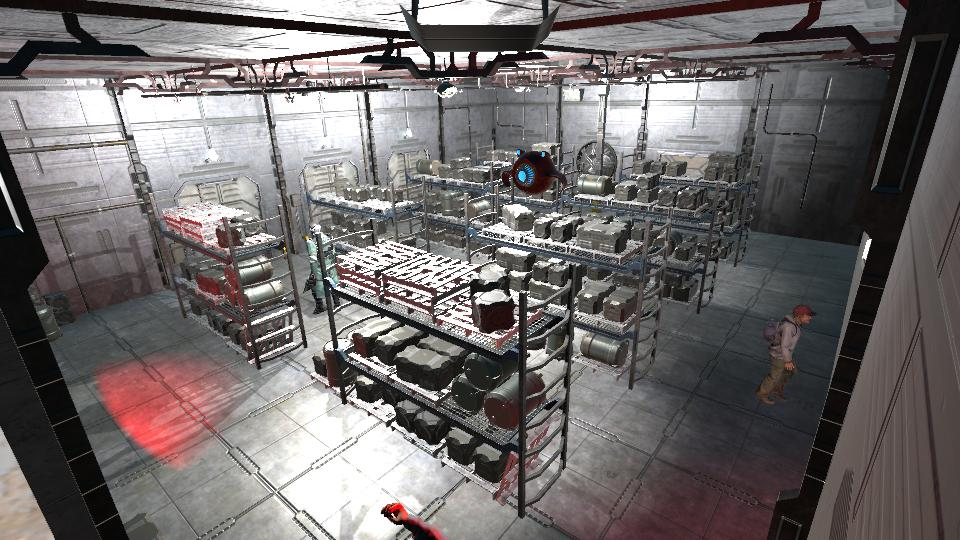
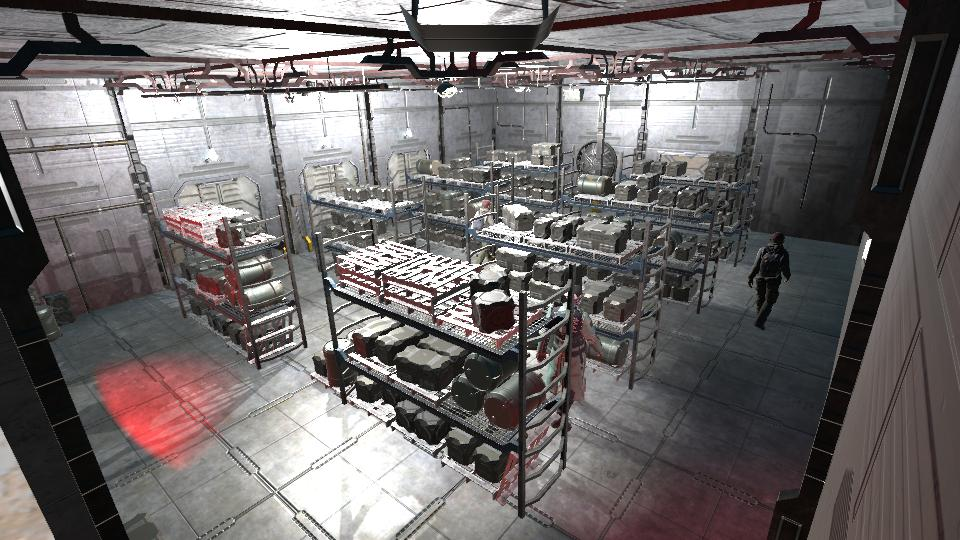
Guard Movement

diff --git a/UnityEvidencia2/Assets/Scripts/GuardController.cs b/UnityEvidencia2/Assets/Scripts/GuardController.cs
@@ -13,11 +13,9 @@ public class GuardController : MonoBehaviour
     //[SerializeField] private float rotationSpeed = 100f;
 
     private NavMeshAgent agent;
-    private int currentWaypointIndex = 0;
     private bool isMovingToTarget = false;
     private Animator animator; 
     private GameController gameController;
-    private List<Vector3> patrolRoute;
 
     private Vector3 controlStationPosition;
     private bool isAtControlStation = false;
@@ -29,14 +27,16 @@ public class GuardController : MonoBehaviour
         agent.speed = moveSpeed;
         gameController = FindObjectOfType<GameController>();
 
-        patrolRoute = new List<Vector3>
-        {
-            new Vector3(21, 0, 3)
-        };
+        // Comenta o elimina estas líneas
+        //patrolRoute = new List<Vector3>
+        //{
+        //    new Vector3(21, 0, 3)
+        //};
 
         controlStationPosition = new Vector3(14f, 0f, 1f);
 
-        MoveToNextWaypoint();
+        // Comenta o elimina esta línea
+        //MoveToNextWaypoint();
     }
 
     void Update()
@@ -44,13 +44,13 @@ public class GuardController : MonoBehaviour
         if (isMovingToTarget)
         {
             agent.SetDestination(agent.destination);
-            
-            // Check if reached the target (could be scavenger or control station)
+
+            // Verifica si ha llegado al destino (puede ser un intruso o la estación de control)
             if (Vector3.Distance(transform.position, agent.destination) <= catchDistance)
             {
                 isMovingToTarget = false;
-                
-                // If at control station, start staying timer
+
+                // Si está en la estación de control, inicia la rutina para quedarse allí
                 if (IsAtControlStation())
                 {
                     StartCoroutine(StayAtControlStation());
@@ -62,6 +62,8 @@ public class GuardController : MonoBehaviour
                 }
             }
         }
+        // Elimina o comenta este bloque
+        /*
         else
         {
             if (!agent.pathPending && agent.remainingDistance < 0.5f)
@@ -69,13 +71,15 @@ public class GuardController : MonoBehaviour
                 MoveToNextWaypoint();
             }
         }
+        */
 
-        // Update animation if available
+        // Actualiza la animación si está disponible
         if (animator != null)
         {
             animator.SetBool("IsMoving", agent.velocity.magnitude > 0.1f);
         }
     }
+
 
     // New method to move to control station
     public void MoveToControlStation()
@@ -97,28 +101,21 @@ public class GuardController : MonoBehaviour
         isAtControlStation = true;
         Debug.Log("Guard arrived at control station.");
 
-        // Wait for specified number of frames
-        for (float timer = 0; timer < controlStationStayDuration; timer += Time.deltaTime)
-        {
-            yield return null;
-        }
+        // Elimina el temporizador si quieres que se quede allí para siempre
+        // Si deseas que realice alguna acción, puedes mantenerlo o ajustarlo
+        //yield return new WaitForSeconds(controlStationStayDuration);
 
-        isAtControlStation = false;
-        Debug.Log("Guard finished staying at control station.");
+        // Elimina o comenta estas líneas
+        //isAtControlStation = false;
+        //Debug.Log("Guard finished staying at control station.");
+        //MoveToNextWaypoint();
 
-        // Resume patrol or other previous activities
-        MoveToNextWaypoint();
+        // El guardia se queda en la estación de control indefinidamente
+        yield break;
     }
 
-    private void MoveToNextWaypoint()
-    {
-        if (patrolRoute.Count == 0)
-            return;
 
-        agent.SetDestination(patrolRoute[currentWaypointIndex]);
-        currentWaypointIndex = (currentWaypointIndex + 1) % patrolRoute.Count;
-        //Debug.Log("Guard moving to waypoint: " + currentWaypointIndex);
-    }
+
 
     public void MoveToAlert(Vector3 alertPosition)
     {
